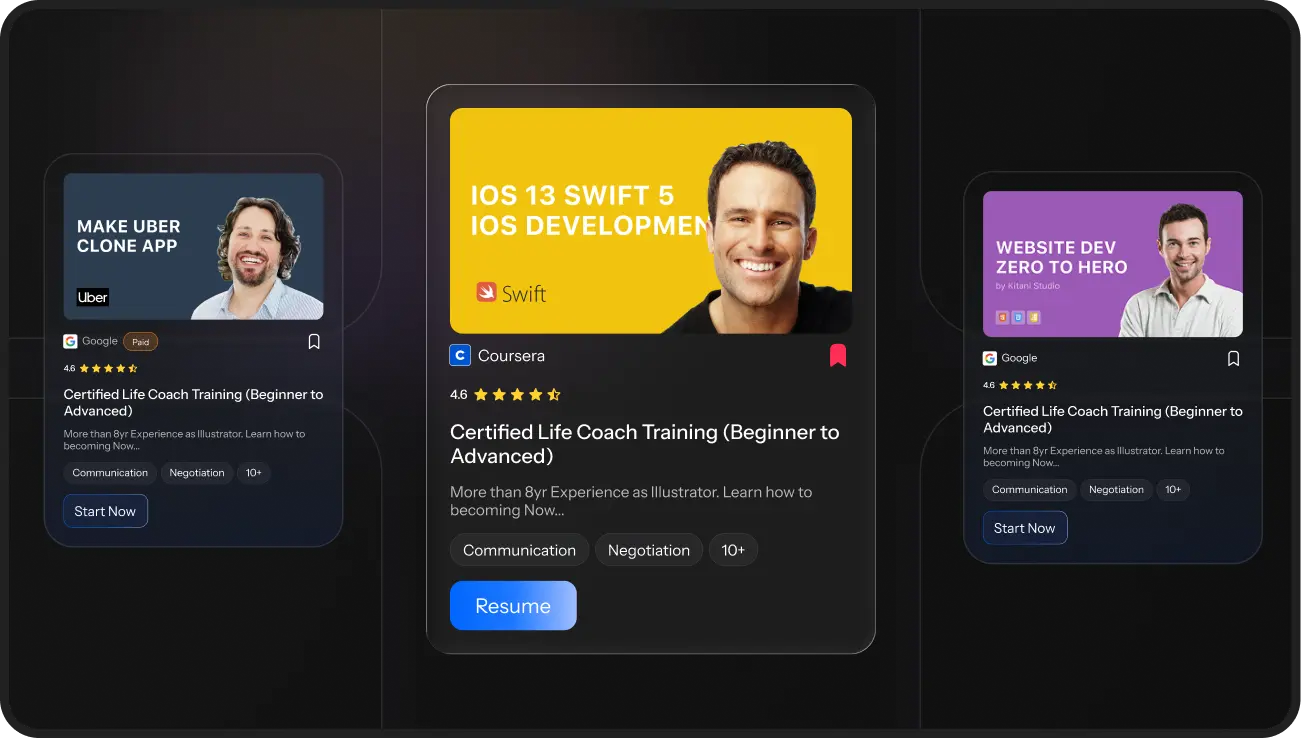
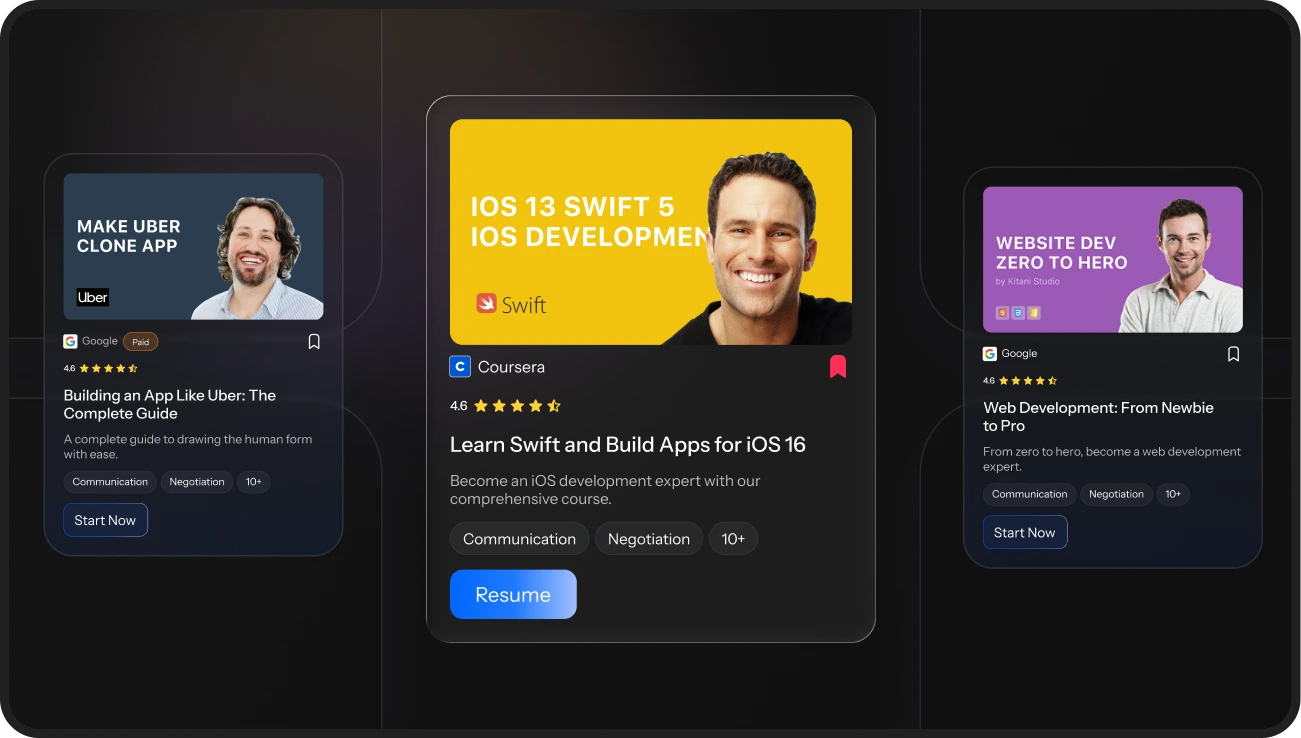
updated

diff --git a/app/colleges/HowItWork.tsx b/app/colleges/HowItWork.tsx
@@ -23,7 +23,7 @@ export default function HowItWorks() {
       id: 3,
       title: "Boost Placements",
       desc: "Share verified student profiles with recruiters & track outcomes.",
-      img: "/img/employers/search-discover.webp", // change this to your own image
+      img: "/img/universities/boost-placements.webp", // change this to your own image
     },
   ];
 

diff --git a/components/HeroSection.tsx b/components/HeroSection.tsx
@@ -152,7 +152,7 @@ export default function HeroSection() {
             transition={{ duration: 0.8, ease: "easeInOut" }}
             className="2xl:text-4xl xl:text-3xl text-3xl font-medium viga"
           >
-            Passport for growth
+            Passport for Growth
           </motion.h2>
 
           <p className="text-base text-white/70">Powered by</p>
